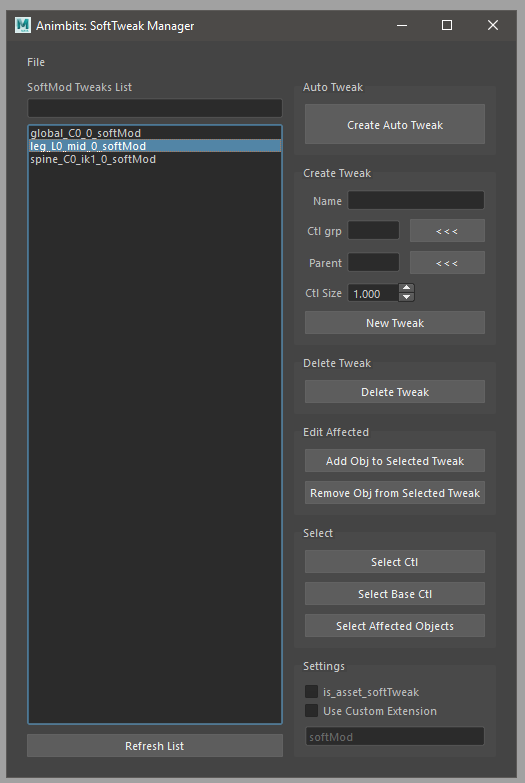
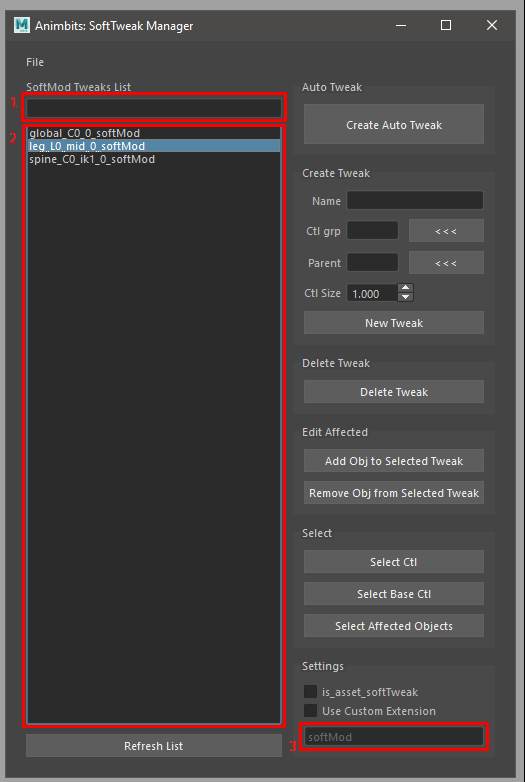
Docs: animbits user docs #16

diff --git a/docs/source/animbitsUserDocumentation.rst b/docs/source/animbitsUserDocumentation.rst
@@ -1,12 +1,92 @@
 Animbits User Documentation
-==========================
+###########################
 
 Tools for animators.
 
-* components
-* creating new components
-* guides templates and basic rig building
-* stepped rig building
-* scalability and reusability
-* gotchas
-* tips
+.. image:: images/animbits/animbits_menu.png
+    :align: center
+    :scale: 95%
+
+Soft Tweaks
+===========
+
+This tool create and manage SoftTweaks (ST for short) and also provide as simple API to import and export configurations, so is possible to integrate with your pipeline and animation publishing system.
+
+.. image:: images/animbits/gifs/softtweak.gif
+    :align: center
+
+SoftTweak is a dynamic position tweak using softmod deformer
+The credit of the idea goes to `Vasil Shotarov <http://bindpose.com/help-animators-fix-intersections-softmod-deformer/>`_ , thanks!
+
+The SoftTweak have 2 controls. The Base represents the bind position where the ST will not have any effect. The main control will trigger the deformation when is not in the reset position..
+
+.. image:: images/animbits/softtweak_ctl.png
+    :align: center
+    :scale: 95%
+
+In the ST main control we can find a falloff channel to control the area of deformation
+
+.. image:: images/animbits/softtweak_falloff.png
+    :align: center
+    :scale: 95%
+
+SoftTweak Manager GUI
+---------------------
+
+By default the SoftTweak is design to be used by shot and not part of a rig. However if is needed to publish a rig with some SoftTweaks there is an option to flag (is_asset_softTweak) the SoftTweak as asset tweak. So the tool will make a distinction between the ones that need to be publish with the shot and the ones that are included in the asset.
+
+.. image:: images/animbits/softtweak_manager.png
+    :align: center
+    :scale: 95%
+
+
+**File Menu:**
+* **Export Selected:** Exports selected ST from the list
+* **Export All:** Exports all the ST from the list. If search filter is used, will not affect the export. But export will make a distinction between regular SoftTweak and  asset SoftTweak
+* **Import:** Import ST configuration from a file.
+
+
+* **Search Filter:** (1) Quick search filter of the SoftTweak list.
+* **SoftTweaks List:** (2) ST selection list.
+* **Create Auto Tweak:** Create a tweak based on the current selection.
+	1. Select the objects to apply the ST
+	2. Last element selected should be a control. This will be the parent of the ST. Also the ST will take the Name and the group(set) from the parent
+	3. Click Crete Auto Tweak
+
+* **Name:** Name of the new ST.
+* **Ctl grp:** Group of controls to add the new ST controls.
+* **Parent:** Parent of the new ST.
+* **Ctl Size:** Parent of the new ST.
+* **New Tweak:** Create a new ST.
+* **Delete Tweak:** Delete the tweaks selected in the ST list.
+* **Add Object to Selected Tweak:** Add selected objects to the tweaks selected in the ST list.
+* **Remove Object from Selected Tweak:** Remove selected objects from the tweaks selected in the ST list.
+* **Select Ctl:** Select the control from the tweaks selected in the ST list.
+* **Select Base Ctl:** Select the Base control from the tweaks selected in the ST list.
+* **Select Affected Objects:** Select the object affected by the the tweaks selected in the ST list.
+* **is_asset_softTweak:** Tag the new created ST as an asset ST. This will also change the ST selection list to show the asset ST.
+* **Use Custom Extension:** The new ST will have a custom suffix.
+* **Suffix Name:** (3) Suffix name for the new ST.
+
+
+API:
+-----
+To import a softTweak configuration from script editor or Shifter Custom Step:
+
+.. codeblock:: python
+	from mgear.animbits import softTweaks
+	softTweaks.importConfigurationFromFile(filePath= path to the .smt configuration file)
+
+
+Smart reset Attribute/SRT
+=========================
+
+This command will reset the SRT (Scale, rotation and Translation of any selected object). If an attribute is higlighted in the Channel Box, will reset the channel instead.
+
+**TIP:** Set a hotkey for this command using mGear Hotkey creator in utilities menu.
+
+.. image:: images/animbits/smartReset_hotkey.png
+    :align: center
+    :scale: 95%
+
+
